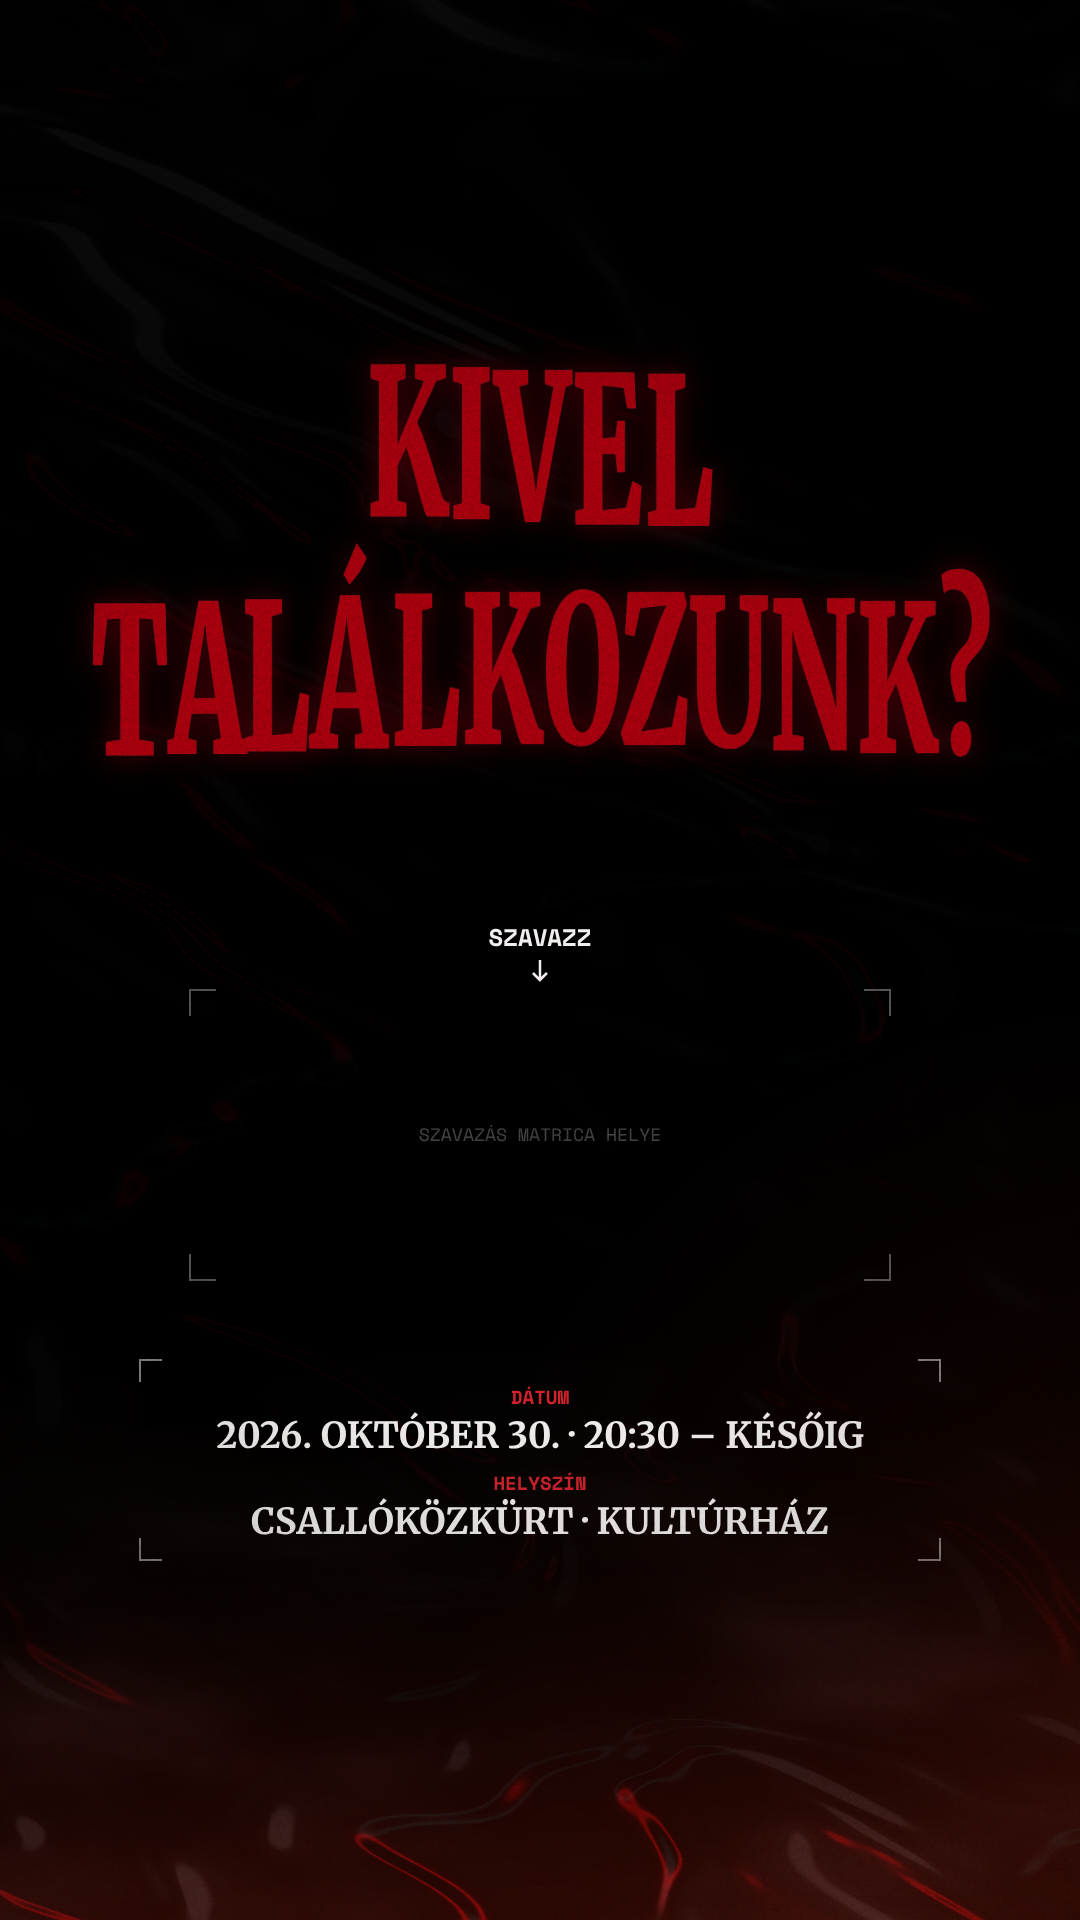
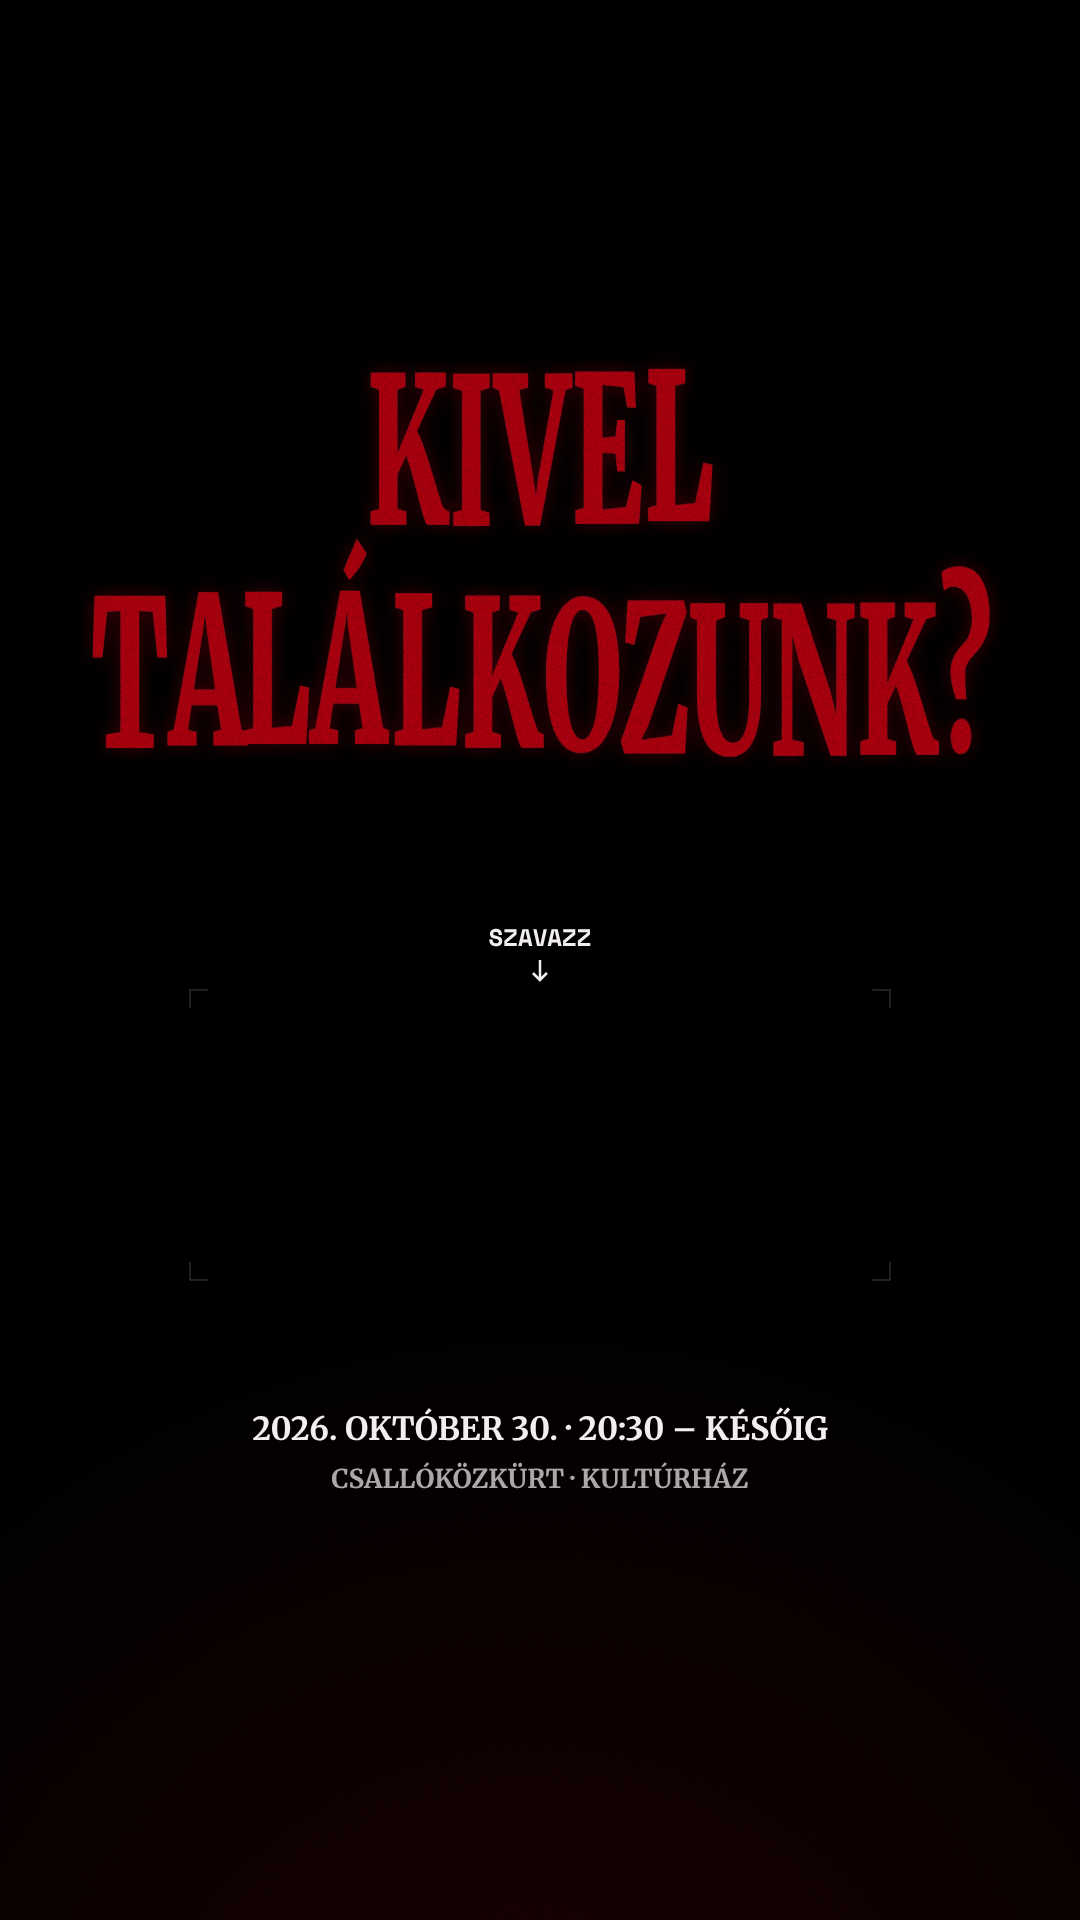
D: strip to pure black, bare date lines, no silk/fog/chroma split
Claude-Session: https://claude.ai/code/session_018Cd2tPRf6vDfQvxZkFHLrH

diff --git a/halloween-story/index.html b/halloween-story/index.html
@@ -304,6 +304,14 @@ function infoSlot(g, x, y, w, opts){
   const center = opts.align === 'center', h = center ? 200 : 150;
   const rev = opts.reveal ?? 1, arm = opts.arm ?? 1, seed = opts.seed ?? 0;
   g.save();
+  if(opts.bare){
+    const cx = x+w/2; g.textAlign='center'; g.textBaseline='alphabetic';
+    g.fillStyle='#f2eeee';
+    const line = (t,py,sz,p,sd)=>{ g.font = SERIF7(fitSize(g, SERIF7, [t], w, sz)); const fw = g.measureText(t).width; g.textAlign='left'; g.fillText(scramble(t, p, sd), cx-fw/2, py); };
+    line(date, y+40, 32, clamp01(rev*1.6), seed+1);
+    g.globalAlpha *= .7; line(loc, y+88, 26, clamp01(rev*1.6-.6), seed+2);
+    g.restore(); return;
+  }
   if(state.guides && arm > 0){
     g.strokeStyle='rgba(235,230,230,.55)'; g.lineWidth=2; const c=22*arm;
     const br=(px,py,dx,dy)=>{ g.beginPath(); g.moveTo(px+dx*c,py); g.lineTo(px,py); g.lineTo(px,py+dy*c); g.stroke(); };
@@ -332,7 +340,7 @@ function infoSlot(g, x, y, w, opts){
 }
 
 // Reserved space for the Instagram poll sticker: a small CTA above, faint brackets around
-function pollSlot(g, x, y, w, h, a, arm=1, cta=1, seed=0){
+function pollSlot(g, x, y, w, h, a, arm=1, cta=1, seed=0, o={}){
   if(a <= 0) return;
   g.save(); g.globalAlpha = a;
   g.textAlign='center'; g.textBaseline='alphabetic';
@@ -344,10 +352,10 @@ function pollSlot(g, x, y, w, h, a, arm=1, cta=1, seed=0){
   g.strokeStyle='#f2eeee'; g.lineWidth=2.5; g.beginPath();
   g.moveTo(ax, ay); g.lineTo(ax, ay+20); g.moveTo(ax-7, ay+13); g.lineTo(ax, ay+20); g.lineTo(ax+7, ay+13); g.stroke();
   if(state.guides){
-    g.globalAlpha = a; g.strokeStyle='rgba(235,230,230,.35)'; g.lineWidth=2; const c=26*arm;
+    g.globalAlpha = a; g.strokeStyle = o.bare ? 'rgba(235,230,230,.18)' : 'rgba(235,230,230,.35)'; g.lineWidth = o.bare ? 1.5 : 2; const c=(o.bare ? 18 : 26)*arm;
     const br=(px,py,dx,dy)=>{ g.beginPath(); g.moveTo(px+dx*c,py); g.lineTo(px,py); g.lineTo(px,py+dy*c); g.stroke(); };
     br(x,y,1,1); br(x+w,y,-1,1); br(x,y+h,1,-1); br(x+w,y+h,-1,-1);
-    g.globalAlpha = a*clamp01(arm*2-1); g.fillStyle='rgba(235,230,230,.28)'; g.font = MONO(18);
+    g.globalAlpha = o.bare ? 0 : a*clamp01(arm*2-1); g.fillStyle='rgba(235,230,230,.28)'; g.font = MONO(18);
     g.fillText('SZAVAZÁS MATRICA HELYE', x+w/2, y+h/2+6);
   }
   g.restore();
@@ -364,10 +372,13 @@ const VARIANTS = {
       const easeOutExpo = x => x>=1 ? 1 : 1-Math.pow(2,-10*x);
       const easeInCubic = x => x*x*x;
       const easeOutBack = x => 1 + 2.4*Math.pow(x-1,3) + 1.4*Math.pow(x-1,2);
-      const hit = Math.max(tri(T/DUR, 1.85/DUR, .012), .5*tri(T/DUR, 5.3/DUR, .006));
+      const hit = .6*tri(T/DUR, 1.85/DUR, .01);
       const p = { moon:[0,0,0], moonA:0, glow:.35+.15*Math.sin(t*6.283), chrome:.8+hit*.6 };
-      ctx.drawImage(glPass(0,3,t,p),0,0,W,H);
-      ctx.save(); ctx.globalAlpha=.8; ctx.drawImage(glPass(1,3,t,p),0,0,W,H); ctx.restore();
+      ctx.fillStyle='#000'; ctx.fillRect(0,0,W,H);
+      { const g = ctx.createRadialGradient(W/2, H+260, 0, W/2, H+260, 900);
+        const a = .22 + .06*Math.sin(t*6.283);
+        g.addColorStop(0,`rgba(150,8,10,${a})`); g.addColorStop(1,'rgba(150,8,10,0)');
+        ctx.fillStyle=g; ctx.fillRect(0,0,W,H); }
 
       // ---- opening light line ----
       if(T < .75){
@@ -405,7 +416,7 @@ const VARIANTS = {
             // beam phase: tall, thin, white, falling, scrambling
             const e = easeOutExpo(pIn/.55);
             const sy = SY*(6 - 5*e), sx = .12 + .5*e;
-            const glyph = BEAM[Math.floor(rng(frame*31+k)()*BEAM.length)];
+            const glyph = ch;
             lx.save(); lx.filter = `blur(${(8*(1-e)+1).toFixed(1)}px)`;
             lx.globalAlpha = .35 + .65*e;
             lx.translate(cx, bases[li] - (1-e)*320); lx.scale(sx, sy);
@@ -431,24 +442,22 @@ const VARIANTS = {
       });
       roughen(lx, frame, .5);
       // strobe hit: chromatic split of the headline
-      if(hit > .03){
+      if(false){
         const off = 26*hit;
         cx2.clearRect(0,0,W,H); cx2.drawImage(layer,0,0);
         cx2.globalCompositeOperation='source-in'; cx2.fillStyle='#00e5ff'; cx2.fillRect(0,0,W,H); cx2.globalCompositeOperation='source-over';
         ctx.save(); ctx.globalCompositeOperation='screen'; ctx.globalAlpha=.75*hit;
         ctx.drawImage(c2, off, 0); ctx.drawImage(layer, -off*1.4, 0); ctx.restore();
       }
-      ctx.save(); ctx.shadowColor='rgba(162,0,13,.5)'; ctx.shadowBlur=30; ctx.drawImage(layer,0,0); ctx.restore();
+      ctx.save(); ctx.shadowColor='rgba(162,0,13,.35)'; ctx.shadowBlur=18; ctx.drawImage(layer,0,0); ctx.restore();
       ctx.save(); ctx.globalCompositeOperation='screen'; ctx.shadowColor='rgba(255,80,80,.9)'; ctx.shadowBlur=24; ctx.drawImage(flashL,0,0); ctx.restore();
 
       // ---- poll space + date/location ----
       const outA = 1 - clamp01((T-7.1)/.5);
-      pollSlot(ctx, 190, 990, 700, 290, outA, easeOutExpo(clamp01((T-2.0)/.5)), clamp01((T-2.05)/.5), frame);
-      infoSlot(ctx, 140, 1360, 800, { align:'center', reveal: clamp01((T-2.35)/1.1)*outA + (outA<1 ? 0 : 0), arm: easeOutExpo(clamp01((T-2.2)/.5))*outA, seed: frame*7 });
+      pollSlot(ctx, 190, 990, 700, 290, outA, easeOutExpo(clamp01((T-2.0)/.5)), clamp01((T-2.05)/.5), frame, { bare:true });
+      infoSlot(ctx, 140, 1400, 800, { align:'center', bare:true, reveal: clamp01((T-2.35)/1.1)*outA, seed: frame*7 });
 
-      if(hit > 0){ ctx.save(); ctx.globalCompositeOperation='screen'; ctx.fillStyle=`rgba(255,245,240,${hit*.12})`; ctx.fillRect(0,0,W,H); ctx.restore(); }
-      lightLeak(ctx, W+60, 1700, 700, 'rgba(255,50,20,A)', .12+.06*Math.sin(t*6.283));
-      vignette(ctx,.6);
+      if(hit > 0){ ctx.save(); ctx.globalCompositeOperation='screen'; ctx.fillStyle=`rgba(255,245,240,${hit*.08})`; ctx.fillRect(0,0,W,H); ctx.restore(); }
       grain(ctx, frame, .22);
       // fade from / to black so the replay starts clean
       const black = Math.max(1 - clamp01(T/.3), clamp01((T-7.65)/.35));

diff --git a/halloween-story/README.md b/halloween-story/README.md
@@ -14,7 +14,7 @@ An Instagram story at 1080×1920, built on the reference clip (`Andras1080.mp4`)
 
 ## Variants
 
-- **D · Minimál (default)**: the most minimal. Mostly black, a reserved space for the IG **poll sticker** ("SZAVAZZ ↓" plus corner brackets), and the liquid silk only as a thin floor at the bottom. The video runs 8 s: a red light line cuts the black, then every letter falls in as a beam of light in random order, scrambles through random letters and snaps to crimson with a white flash. A strobe hit splits the type red/cyan, the poll brackets draw in, and the date and location decode in. The type then holds and breathes before lifting out and fading to black, so a replay starts clean.
+- **D · Minimál (default)**: stripped right back. Pure black, film grain and one faint ember glow at the bottom; no silk, fog or light leaks. The crimson headline sits over empty space for the IG **poll sticker** ("SZAVAZZ ↓" and whisper-thin corner marks), with the date and venue as two quiet lines and no labels. The video runs 8 s: a red light line opens, each letter falls in as a beam of light and snaps to crimson with a flash, one soft strobe follows, the date decodes in, the type breathes, then it lifts out and fades to black.
 - **A · Vörös selyem**: closest to the reference. Full-bleed liquid silk, a big stacked crimson headline (`KIVEL / TALÁL- / KOZUNK?`), a thin crescent moon, fog rolling in low, and a web in the lower-right corner. Animation: slow glow pulse, two short type flickers, drifting fog.
 - **B · Strobe**: club minimal. Black negative space, one horizontal tear of chrome, and tall stretched chrome type with red/white strobe ghosting. Animation: a double strobe hit, then a single one.
 - **C · Telihold**: a full moon made of the liquid chrome, a fog bank across it, and blurred crimson type underneath. Animation: breathing blur and ember glow.
